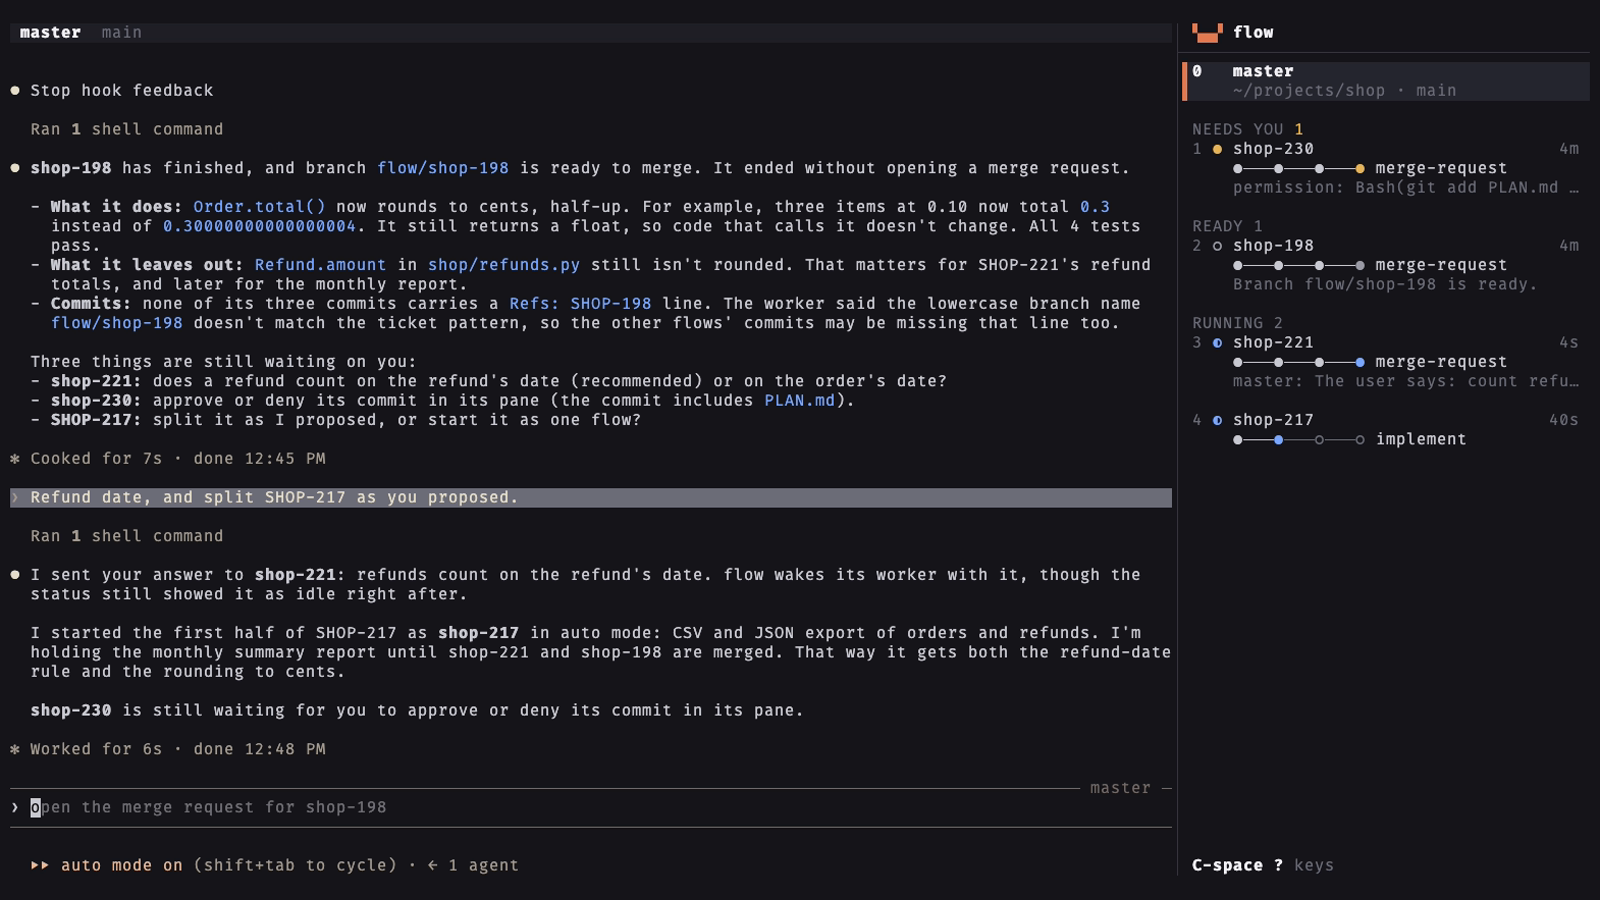
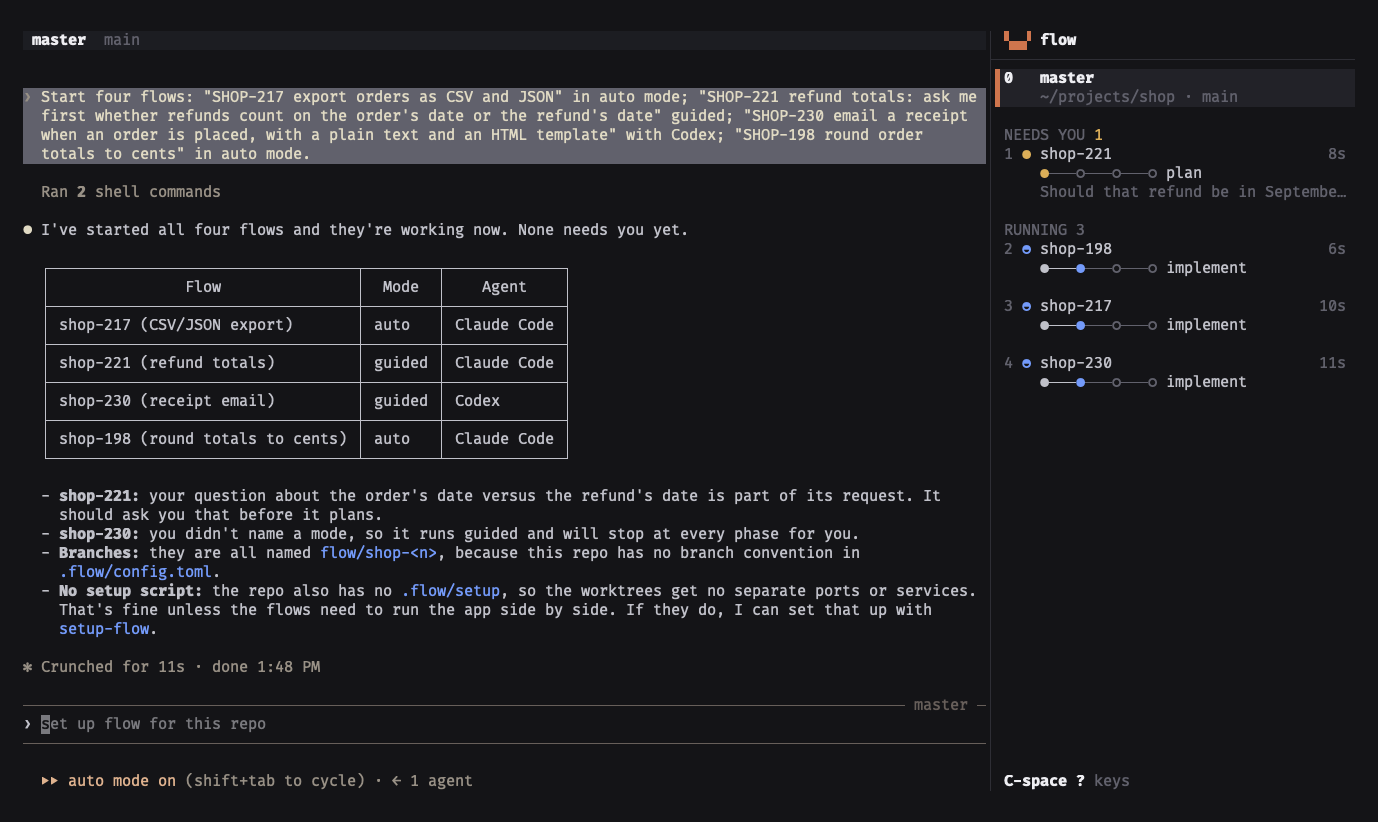
docs: media: record flow ui in Alacritty
record.sh runs flow ui in a private tmux shown in an Alacritty window,
takes the picture by window id and the GIF cropped to the window, so
both look like a real terminal; it replaces the VHS tape. The demo
master is not woken, so its pane ends on its answer.

diff --git a/.claude/plans/plan-flow-release-docs.md b/.claude/plans/plan-flow-release-docs.md
@@ -230,6 +230,14 @@ colors.
   commit in a worktree without asking.
 - The sidebar has no `plain` tag (the old README said so): a plain session shows its state.
 - The end-to-end check installed the branch build into a scratch `--root`, not `~/.cargo/bin`.
+- Re-recorded after the review in Alacritty instead of VHS, as Jan asked: `docs/media/record.sh`
+  (flow ui in a private tmux, an Alacritty window from `docs/media/alacritty.toml`, the picture by
+  window id with `screencapture`, the GIF with ffmpeg cropped to the window) replaces `demo.tape`.
+  The demo config sets `[master] wake = false`, so the master's pane ends on its answer.
+- Found while recording, not fixed here: flow ui panics (index outside the buffer, from
+  `sidebar.rs` `Row::render`) when the terminal shrinks and a redraw comes before the resize event,
+  since `App::draw` lays out from the app's stored size, not the frame's. Reproduced with an app
+  laid out for 150x45 drawn into a 130x40 `TestBackend`.
 
 ## Tasks
 
@@ -249,7 +257,7 @@ colors.
 - [x] `docs/repository.md` and `docs/files.md`: branches, setup/teardown, slots and ports, the setup-flow skill, every file flow keeps
 - [x] `docs/ui.md` and `docs/flows.md`: layout, every key, dialogs, the master, guided vs auto, plain sessions, reporting, the workflow
 - [x] `docs/install.md`, `docs/troubleshooting.md` and the `docs/README.md` index; check whether `npx skills add` takes several `--skill` flags
-- [x] Record the picture: `docs/media/demo-setup.sh` and `demo.tape` with Claude Code and Codex workers, flow dark theme, phase_colors off; `flow-ui.png` and `flow-ui.gif`, from a scratch `FLOW_HOME` only
+- [x] Record the picture: `docs/media/demo-setup.sh` and `demo.tape` (now `record.sh`, Alacritty) with Claude Code and Codex workers, flow dark theme, phase_colors off; `flow-ui.png` and `flow-ui.gif`, from a scratch `FLOW_HOME` only
 - [x] Rewrite `README.md` as on the implementation page, with real `flow status` output and the picture
 - [x] `CHANGELOG.md` under Unreleased with known issues; the CLAUDE.md changelog rule and Architecture lines; `flow example config|theme` under HANDOVER's Future improvements
 
